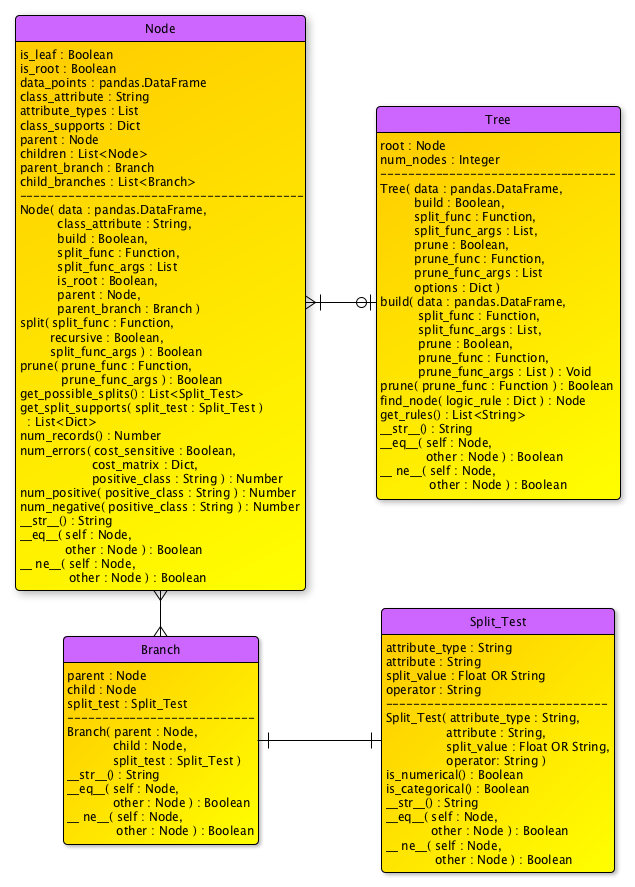
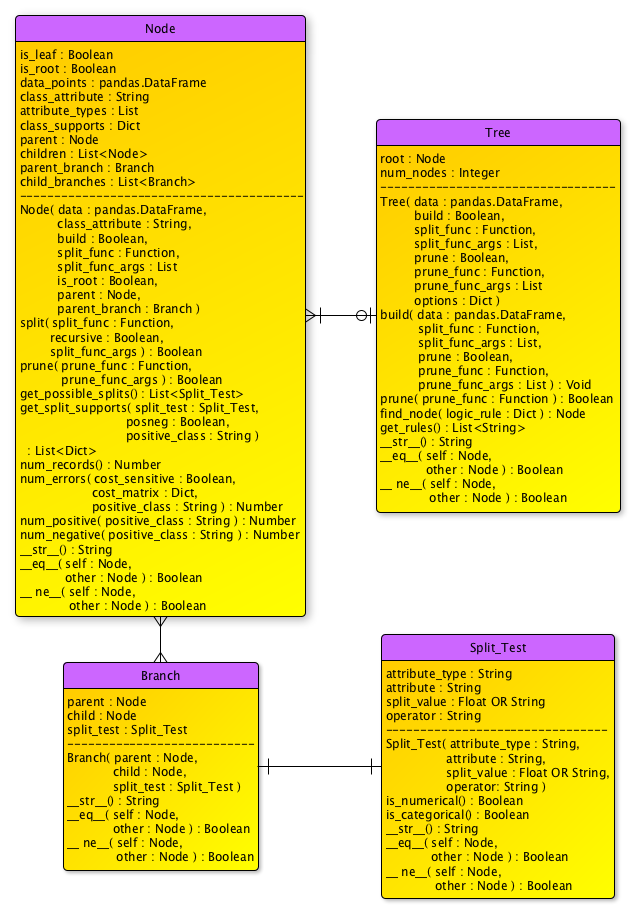
docs,src: Added posneg option to get_split_supports.
If set to true, this options makes the returned split supports have two possible values: 'positive' and 'negative'.

See GitHub Issue #2.

diff --git a/docs/wattle.html b/docs/wattle.html
@@ -185,10 +185,14 @@ Returns:<br>
 &nbsp;&nbsp;(list&lt;<a href="#Split_Test">Split_Test</a>&gt;)&nbsp;:&nbsp;Split&nbsp;tests&nbsp;which&nbsp;can&nbsp;be&nbsp;used&nbsp;to&nbsp;split&nbsp;this&nbsp;node's<br>
 &nbsp;&nbsp;&nbsp;&nbsp;data&nbsp;points.</tt></dd></dl>
 
-<dl><dt><a name="Node-get_split_supports"><strong>get_split_supports</strong></a>(self, split_test)</dt><dd><tt>Finds&nbsp;the&nbsp;supports&nbsp;for&nbsp;the&nbsp;children&nbsp;that&nbsp;would&nbsp;result&nbsp;from&nbsp;split_test.<br>
+<dl><dt><a name="Node-get_split_supports"><strong>get_split_supports</strong></a>(self, split_test, posneg=False, positive_class=None)</dt><dd><tt>Finds&nbsp;the&nbsp;supports&nbsp;for&nbsp;the&nbsp;children&nbsp;that&nbsp;would&nbsp;result&nbsp;from&nbsp;split_test.<br>
 &nbsp;<br>
 Args:<br>
 &nbsp;&nbsp;split_test&nbsp;(<a href="#Split_Test">Split_Test</a>):&nbsp;Used&nbsp;to&nbsp;split&nbsp;the&nbsp;data.<br>
+&nbsp;&nbsp;posneg&nbsp;(Boolean):&nbsp;Whether&nbsp;to&nbsp;return&nbsp;the&nbsp;supports&nbsp;in&nbsp;two&nbsp;categories&nbsp;-<br>
+&nbsp;&nbsp;&nbsp;&nbsp;positive&nbsp;and&nbsp;negative.&nbsp;Where&nbsp;positive&nbsp;data&nbsp;points&nbsp;have&nbsp;the&nbsp;positive<br>
+&nbsp;&nbsp;&nbsp;&nbsp;class&nbsp;value&nbsp;and&nbsp;negative&nbsp;records&nbsp;don't.<br>
+&nbsp;&nbsp;positive_class&nbsp;(str):&nbsp;The&nbsp;name&nbsp;of&nbsp;the&nbsp;positive&nbsp;class&nbsp;value.<br>
 &nbsp;<br>
 Returns:<br>
 &nbsp;&nbsp;(List&lt;Dict&gt;):&nbsp;The&nbsp;i'th&nbsp;element&nbsp;in&nbsp;the&nbsp;list&nbsp;is&nbsp;the&nbsp;i'th&nbsp;class&nbsp;supports,<br>

diff --git a/src/wattle.py b/src/wattle.py
@@ -430,11 +430,15 @@ class Node:
     # Finally, return the list of splits.
     return splits
 
-  def get_split_supports(self, split_test):
+  def get_split_supports(self, split_test, posneg=False, positive_class=None):
     """Finds the supports for the children that would result from split_test.
 
     Args:
       split_test (Split_Test): Used to split the data.
+      posneg (Boolean): Whether to return the supports in two categories -
+        positive and negative. Where positive data points have the positive
+        class value and negative records don't.
+      positive_class (str): The name of the positive class value.
 
     Returns:
       (List<Dict>): The i'th element in the list is the i'th class supports,
@@ -449,7 +453,13 @@ class Node:
     # Add the support counts for each child to the return list.
     split_supports = []
     for child in temp_node.children:
-      split_supports.append(child.class_supports)
+      if posneg:
+        split_supports.append(child.class_supports)
+      else:
+        supports = {}
+        supports['positive'] = child.num_positive(positive_class)
+        supports['negative'] = child.num_negative(positive_class)
+        split_supports.append(supports)
 
     return split_supports
 
